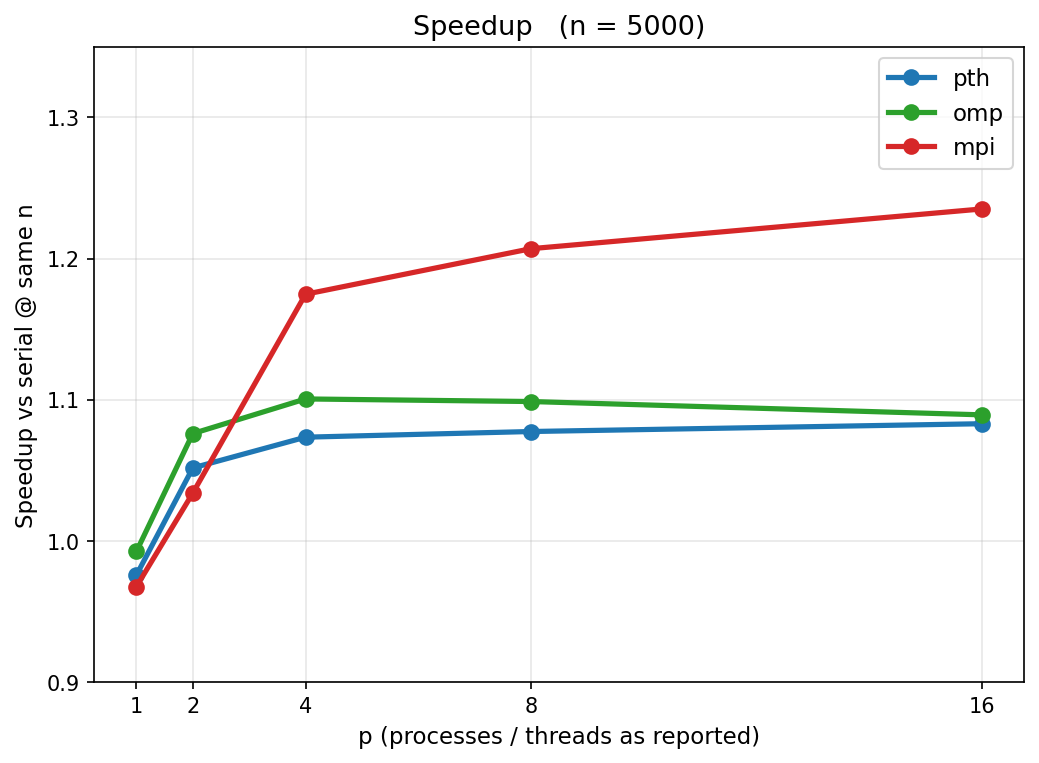
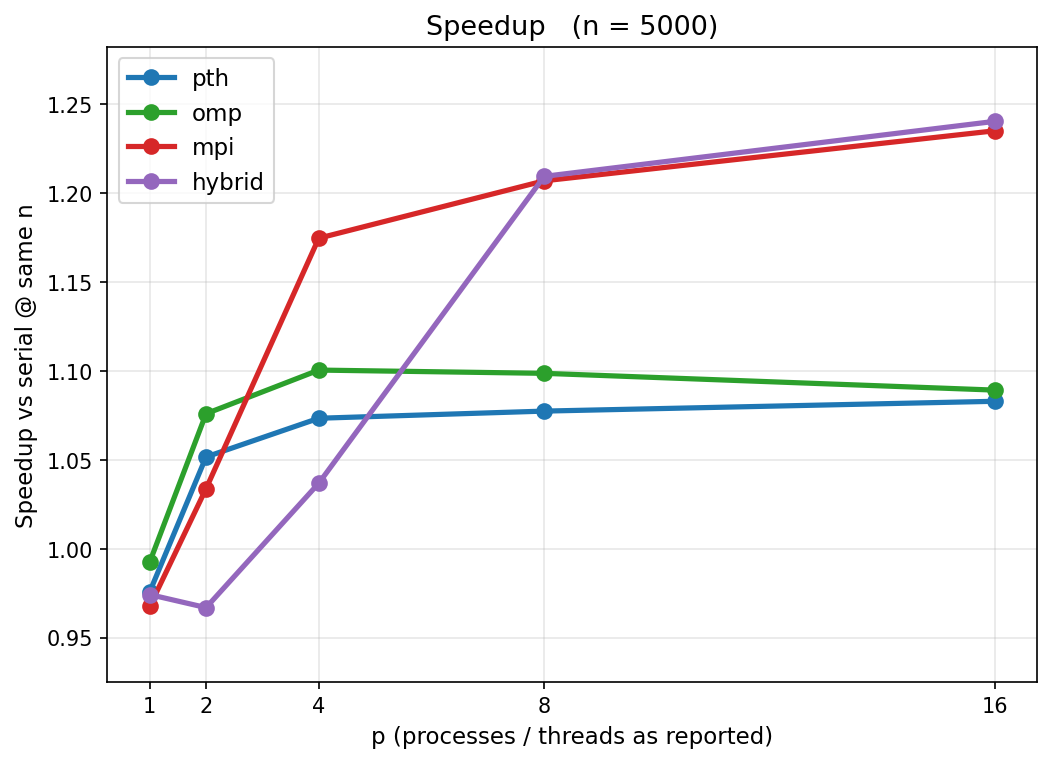
Added hybrid data and stacked/unstacked visual options

diff --git a/data/plot_timing_figures.py b/data/plot_timing_figures.py
@@ -3,8 +3,8 @@
 Load timing_summary.csv and build clear, presentation-ready figures.
 
 Design goals (one main idea per output file, large subplots, no log scale):
-  • Time vs n          → few representative p values, separate PNGs or 2-panel max
-  • Stacked comp/other → one PNG per problem size n (wide single row)
+  • Time vs n          → stacked multi-panel or unstacked per-p PNGs
+  • Stacked comp/other → stacked one-PNG-per-n or unstacked one-PNG-per-(n,p)
   • Speedup            → one PNG per n (zoomed y-axis so separation is visible)
   • Efficiency         → one PNG per n (ideal efficiency = 1 shown as faint line only)
 
@@ -162,8 +162,14 @@ def main() -> int:
         "--time-p-values",
         type=int,
         nargs="*",
-        default=[1, 16],
-        help="Which p panels to plot for time-vs-n (default: 1 and 16 only; reduces clutter)",
+        default=None,
+        help="Optional override list of p values for fig1/fig2; default uses all available p values.",
+    )
+    ap.add_argument(
+        "--fig12-layout",
+        choices=["stacked", "unstacked", "both"],
+        default="both",
+        help="Generate fig1/fig2 in stacked folder, unstacked folder, or both.",
     )
     ap.add_argument(
         "--ideal-reference",
@@ -173,6 +179,10 @@ def main() -> int:
     args = ap.parse_args()
     out_dir = args.out
     out_dir.mkdir(parents=True, exist_ok=True)
+    out_stacked = out_dir / "stacked"
+    out_unstacked = out_dir / "unstacked"
+    out_stacked.mkdir(parents=True, exist_ok=True)
+    out_unstacked.mkdir(parents=True, exist_ok=True)
 
     rows = read_timing_csv(args.csv)
     if not rows:
@@ -183,74 +193,114 @@ def main() -> int:
     ns = sorted({r["n"] for r in rows})
     ps = sorted({r["p"] for r in rows})
     p_vals_all = [x for x in (1, 2, 4, 8, 16) if x in ps]
-    time_panels = [p for p in args.time_p_values if p in ps]
-    if not time_panels:
-        time_panels = p_vals_all[:2] if len(p_vals_all) >= 2 else p_vals_all
+    p_vals_plot = [p for p in (args.time_p_values or p_vals_all) if p in ps]
+    if not p_vals_plot:
+        p_vals_plot = p_vals_all
 
-    # ---- Fig 1: Time vs n — at most 2 panels side by side (large) ----
-    n_tp = len(time_panels)
-    fig1, axes1 = plt.subplots(
-        1,
-        n_tp,
-        figsize=(6.5 * n_tp, 5.5),
-        squeeze=False,
-        sharey=False,
-    )
-    for idx, pval in enumerate(time_panels):
-        ax = axes1[0][idx]
-        plot_time_vs_n_panel(ax, grid, impls_present, ns, pval, annotate=args.annotate)
-        ax.legend(loc="best", fontsize=10, framealpha=0.9)
-    fig1.suptitle("Total time vs problem size", fontsize=13, y=1.02)
-    fig1.tight_layout()
-    p1 = out_dir / "fig1_time_vs_problem_size.png"
-    fig1.savefig(p1, dpi=args.dpi, bbox_inches="tight")
-    plt.close(fig1)
-    print("Wrote", p1)
-
-    # ---- Fig 2: one wide stacked-bar figure per n (single row of p columns) ----
-    for n in ns:
-        fig_w = max(14, 2.8 * len(p_vals_all))
-        fig2, axs2 = plt.subplots(
+    # ---- Fig 1/2: stacked (legacy) and/or unstacked (per-p) ----
+    if args.fig12_layout in ("stacked", "both"):
+        n_tp = len(p_vals_plot)
+        fig1s, axes1 = plt.subplots(
             1,
-            len(p_vals_all),
-            figsize=(fig_w, 4.2),
+            n_tp,
+            figsize=(6.5 * n_tp, 5.5),
             squeeze=False,
-            sharey=True,
+            sharey=False,
         )
+        for idx, pval in enumerate(p_vals_plot):
+            ax = axes1[0][idx]
+            plot_time_vs_n_panel(ax, grid, impls_present, ns, pval, annotate=args.annotate)
+            ax.legend(loc="best", fontsize=10, framealpha=0.9)
+        fig1s.suptitle("Total time vs problem size", fontsize=13, y=1.02)
+        fig1s.tight_layout()
+        p1s = out_stacked / "fig1_time_vs_problem_size.png"
+        fig1s.savefig(p1s, dpi=args.dpi, bbox_inches="tight")
+        plt.close(fig1s)
+        print("Wrote", p1s)
 
-        def rowget(key):
-            r = grid.get(key)
-            return r if r is not None else {}
+        for n in ns:
+            fig_w = max(14, 2.8 * len(p_vals_plot))
+            fig2s, axs2 = plt.subplots(
+                1,
+                len(p_vals_plot),
+                figsize=(fig_w, 4.2),
+                squeeze=False,
+                sharey=True,
+            )
 
-        impls2 = [i for i in IMPL_ORDER if i in impls_present]
-        for j_p, pval in enumerate(p_vals_all):
-            axb = axs2[0][j_p]
-            x0 = np.arange(len(impls2), dtype=float)
-            cvals = [rowget((i, n, pval)).get("T_computation", 0) for i in impls2]
-            ovals = [rowget((i, n, pval)).get("T_other", 0) for i in impls2]
-            if not any(cvals) and not any(ovals):
-                axb.set_visible(False)
-                continue
-            axb.bar(x0, cvals, 0.72, label="T_computation", color="#4c78a8")
-            axb.bar(x0, ovals, 0.72, bottom=cvals, label="T_other", color="#f58518")
-            axb.set_xticks(x0)
-            axb.set_xticklabels(impls2, rotation=15, ha="right", fontsize=10)
-            axb.set_title(f"p = {pval}", fontsize=11)
-            axb.set_xlabel("Implementation", fontsize=10)
-            if j_p == 0:
+            def rowget(key):
+                r = grid.get(key)
+                return r if r is not None else {}
+
+            impls2 = [i for i in IMPL_ORDER if i in impls_present]
+            for j_p, pval in enumerate(p_vals_plot):
+                axb = axs2[0][j_p]
+                x0 = np.arange(len(impls2), dtype=float)
+                cvals = [rowget((i, n, pval)).get("T_computation", 0) for i in impls2]
+                ovals = [rowget((i, n, pval)).get("T_other", 0) for i in impls2]
+                if not any(cvals) and not any(ovals):
+                    axb.set_visible(False)
+                    continue
+                axb.bar(x0, cvals, 0.72, label="T_computation", color="#4c78a8")
+                axb.bar(x0, ovals, 0.72, bottom=cvals, label="T_other", color="#f58518")
+                axb.set_xticks(x0)
+                axb.set_xticklabels(impls2, rotation=15, ha="right", fontsize=10)
+                axb.set_title(f"p = {pval}", fontsize=11)
+                axb.set_xlabel("Implementation", fontsize=10)
+                if j_p == 0:
+                    axb.set_ylabel("Time (s)", fontsize=11)
+                    axb.legend(fontsize=9, loc="upper right")
+            fig2s.suptitle(
+                f"Computation vs overhead (stacked)   —   n = {n}",
+                fontsize=13,
+                y=1.05,
+            )
+            fig2s.tight_layout()
+            p2s = out_stacked / f"fig2_stacked_bars_n{n}.png"
+            fig2s.savefig(p2s, dpi=args.dpi, bbox_inches="tight")
+            plt.close(fig2s)
+            print("Wrote", p2s)
+
+    if args.fig12_layout in ("unstacked", "both"):
+        for pval in p_vals_plot:
+            fig1u, ax = plt.subplots(1, 1, figsize=(7.2, 5.6))
+            plot_time_vs_n_panel(ax, grid, impls_present, ns, pval, annotate=args.annotate)
+            ax.legend(loc="best", fontsize=10, framealpha=0.9)
+            fig1u.suptitle(f"Total time vs problem size (p = {pval})", fontsize=13, y=1.02)
+            fig1u.tight_layout()
+            p1u = out_unstacked / f"fig1_time_vs_problem_size_p{pval}.png"
+            fig1u.savefig(p1u, dpi=args.dpi, bbox_inches="tight")
+            plt.close(fig1u)
+            print("Wrote", p1u)
+
+        for n in ns:
+            def rowget_u(key):
+                r = grid.get(key)
+                return r if r is not None else {}
+
+            impls2 = [i for i in IMPL_ORDER if i in impls_present]
+            for pval in p_vals_plot:
+                fig2u, axb = plt.subplots(1, 1, figsize=(8.2, 4.8))
+                x0 = np.arange(len(impls2), dtype=float)
+                cvals = [rowget_u((i, n, pval)).get("T_computation", 0) for i in impls2]
+                ovals = [rowget_u((i, n, pval)).get("T_other", 0) for i in impls2]
+                if not any(cvals) and not any(ovals):
+                    plt.close(fig2u)
+                    continue
+                axb.bar(x0, cvals, 0.72, label="T_computation", color="#4c78a8")
+                axb.bar(x0, ovals, 0.72, bottom=cvals, label="T_other", color="#f58518")
+                axb.set_xticks(x0)
+                axb.set_xticklabels(impls2, rotation=15, ha="right", fontsize=10)
+                axb.set_title(f"n = {n}, p = {pval}", fontsize=11)
+                axb.set_xlabel("Implementation", fontsize=10)
                 axb.set_ylabel("Time (s)", fontsize=11)
-            if j_p == 0:
                 axb.legend(fontsize=9, loc="upper right")
-        fig2.suptitle(
-            f"Computation vs overhead (stacked)   —   n = {n}",
-            fontsize=13,
-            y=1.05,
-        )
-        fig2.tight_layout()
-        p2 = out_dir / f"fig2_stacked_bars_n{n}.png"
-        fig2.savefig(p2, dpi=args.dpi, bbox_inches="tight")
-        plt.close(fig2)
-        print("Wrote", p2)
+                fig2u.suptitle("Computation vs overhead (stacked)", fontsize=13, y=1.02)
+                fig2u.tight_layout()
+                p2u = out_unstacked / f"fig2_stacked_bars_n{n}_p{pval}.png"
+                fig2u.savefig(p2u, dpi=args.dpi, bbox_inches="tight")
+                plt.close(fig2u)
+                print("Wrote", p2u)
 
     # ---- Fig 3: Speedup — one PNG per n (zoomed y); no reference line that flattens story ----
     for n in ns:
